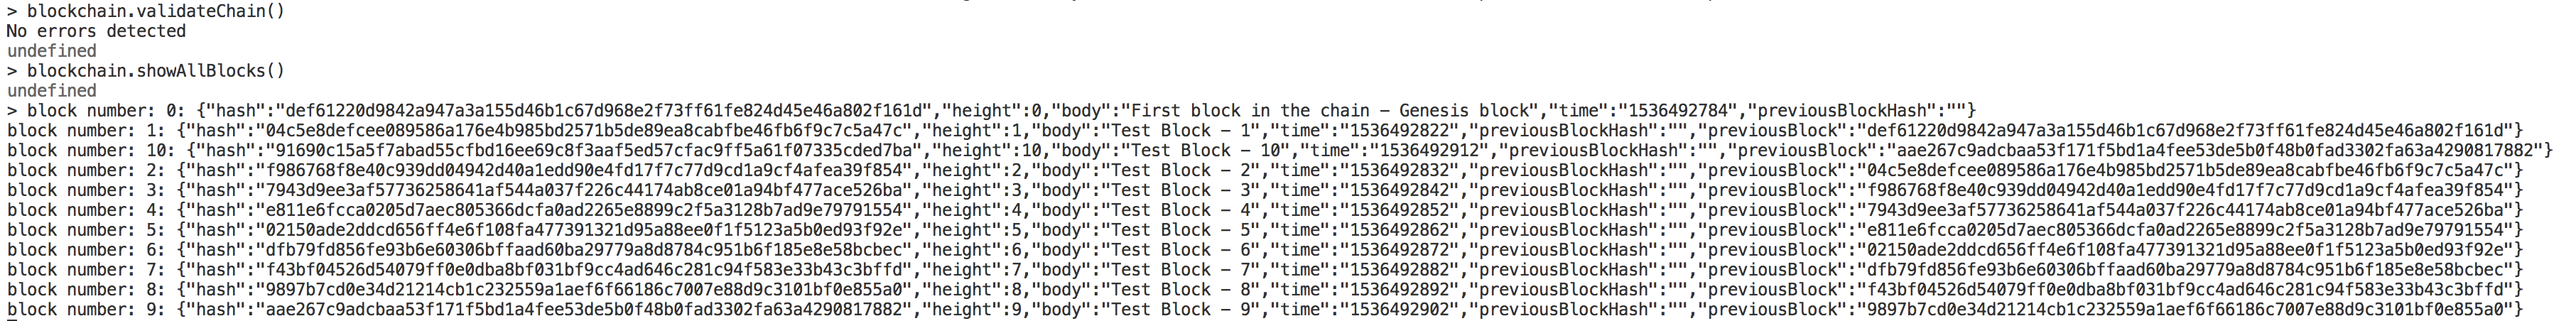
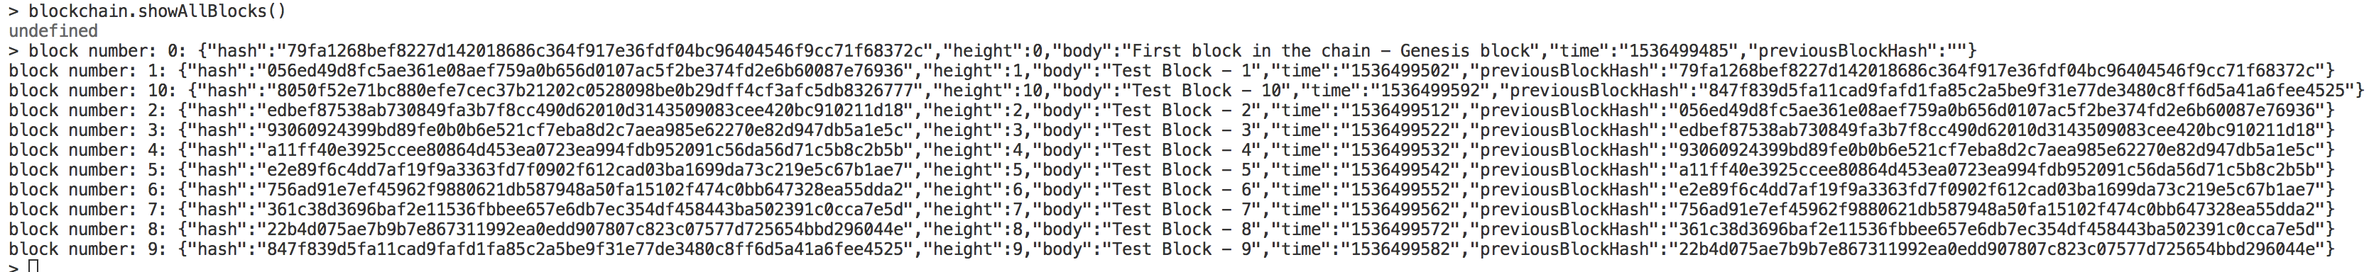
Attribute correction
changed previousBlock into previousBlockHash

diff --git a/simpleChain.js b/simpleChain.js
@@ -58,7 +58,7 @@ class Blockchain{
 
         if (height > -1) {
           let previousBlock = await this.getBlock(height);
-          newBlock.previousBlock = previousBlock.hash;
+          newBlock.previousBlockHash = previousBlock.hash;
         }
         this.addDataToLevelDB(newBlock.height, JSON.stringify(newBlock))
 
@@ -182,3 +182,5 @@ let blockchain = new Blockchain()
 
 
 
+
+  
